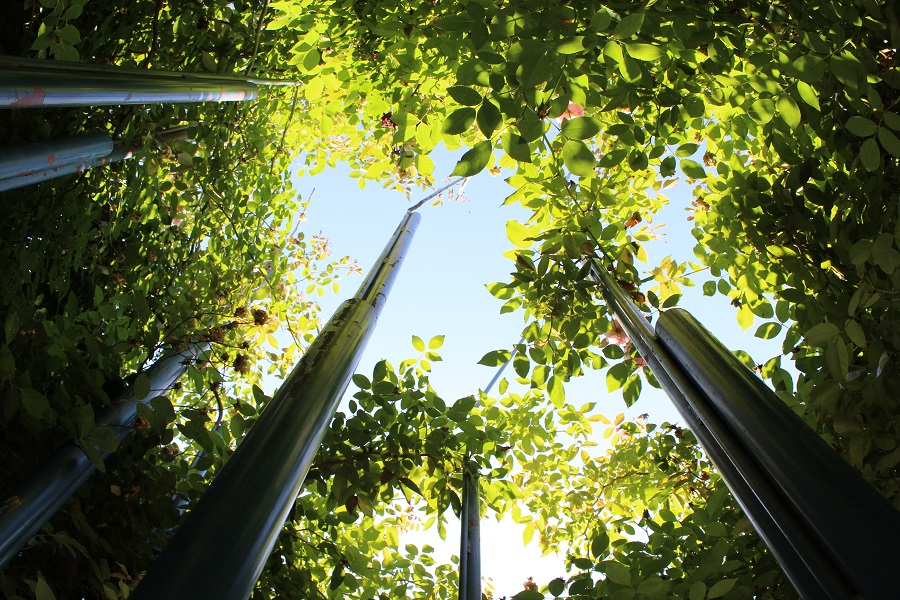
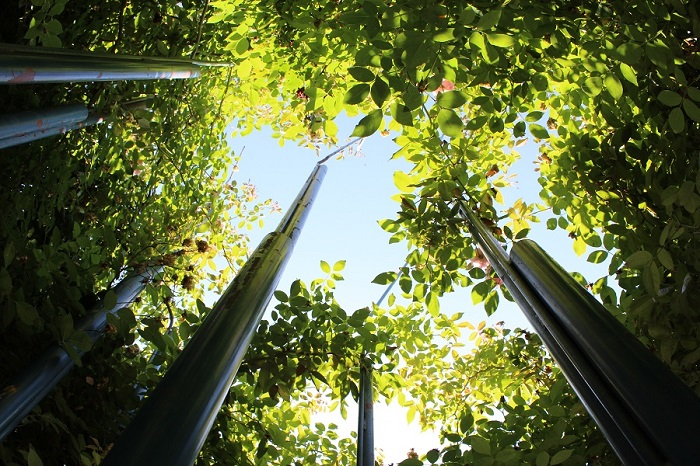
resized photos on photo section

diff --git a/photography/index.html b/photography/index.html
@@ -50,7 +50,7 @@
 
             <h1 class="heading"></h1>
 
-            <img id="previewImage" src="images/bandit.jpg" alt="Cat portrait" width="800">
+            <img id="previewImg" src="images/bandit.jpg" alt="Cat portrait">
 
           </div>
 
@@ -58,24 +58,24 @@
 
             <h2 class="subheading" id="photoTitle">Bandit</h2>
 
-            <p id="artDes">Portrait of grandma's cat, digital camera, 2012</p>
+            <p id="photoDes">Portrait of grandma's cat, digital camera, 2012</p>
 
             <ul id="photoThumbs">
-              <li class="photo"><a id="banditLink"><img src="images/banditLink.jpg" alt="Cat portrait" width="100"></a></li>
-              <li class="photo"><a id="lagunaBeachLink"><img src="images/beachLink.jpg" alt="beach" width="100"></a></li>
-              <li class="photo" id="bootsLink"><img src="images/bootsLink.jpg" alt="boots hanging" width="100"></li>
-              <li class="photo" id="bridgeLink"><img src="images/bridgeLink.jpg" alt="Bridge and Bird" width="100"></li>
-              <li class="photo" id="bulbLink"><img src="images/bulbLink.jpg" alt="string of bulbs" width="100"></li>
-              <li class="photo" id="lightsLink"><img src="images/lightsLink.jpg" alt="string of lights" width="100"></li>
-              <li class="photo" id="catRoadLink"><img src="images/catRoadLink.jpg" alt="Cat in middle of road" width="100"></li>
-              <li class="photo" id="owlLink"><img src="images/owlLink.jpg" alt="Owl" width="100"></li>
-              <li class="photo" id="roomLink"><img src="images/roomLink.jpg" alt="Room" width="100"></li>
-              <li class="photo" id="sanctuaryLink"><img src="images/sanctuaryLink.jpg" alt="bird sanctuary" width="100"></li>
-              <li class="photo" id="stitchesLink"><img src="images/stitchesLink.jpg" alt="stray cat" width="100"></li>
-              <li class="photo" id="stitches2Link"><img src="images/stitches2Link.jpg" alt="stray cat" width="100"></li>
-              <li class="photo" id="treeLink"><img src="images/treeLink.jpg" alt="tree" width="100"></li>
-              <li class="photo" id="treesLink"><img src="images/treesLink.jpg" alt="tree reflection" width="100"></li>
-              <li class="photo" id="wallLink"><img src="images/wallLink.jpg" alt="brick wall" width="100"></li>
+              <li class="photo" id="banditLink"><img src="images/banditLink.jpg" alt="Cat portrait"></li>
+              <li class="photo" id="lagunaBeachLink"><img src="images/beachLink.jpg" alt="beach"></li>
+              <li class="photo" id="bootsLink"><img src="images/bootsLink.jpg" alt="boots hanging"></li>
+              <li class="photo" id="bridgeLink"><img src="images/bridgeLink.jpg" alt="Bridge and Bird"></li>
+              <li class="photo" id="bulbLink"><img src="images/bulbLink.jpg" alt="string of bulbs"></li>
+              <li class="photo" id="lightsLink"><img src="images/lightsLink.jpg" alt="string of lights"></li>
+              <li class="photo" id="catRoadLink"><img src="images/catRoadLink.jpg" alt="Cat in middle of road"></li>
+              <li class="photo" id="owlLink"><img src="images/owlLink.jpg" alt="Owl"></li>
+              <li class="photo" id="roomLink"><img src="images/roomLink.jpg" alt="Room"></li>
+              <li class="photo" id="sanctuaryLink"><img src="images/sanctuaryLink.jpg" alt="bird sanctuary"></li>
+              <li class="photo" id="stitchesLink"><img src="images/stitchesLink.jpg" alt="stray cat"></li>
+              <li class="photo" id="stitches2Link"><img src="images/stitches2Link.jpg" alt="stray cat"></li>
+              <li class="photo" id="treeLink"><img src="images/treeLink.jpg" alt="tree"></li>
+              <li class="photo" id="treesLink"><img src="images/treesLink.jpg" alt="tree reflection"></li>
+              <li class="photo" id="wallLink"><img src="images/wallLink.jpg" alt="brick wall"></li>
             </ul>
 
           </div>
@@ -93,7 +93,7 @@
           <a href="https://www.linkedin.com/in/dnmacedo/"><img src="../images/linkedInIcon.png" alt="linkedIn icon" width="30" height="30"></a>
 
           </div>
-          
+
         </footer>
 
       </main>

diff --git a/photography/script.js b/photography/script.js
@@ -1,9 +1,6 @@
 document.addEventListener("DOMContentLoaded", function(event){
   console.log("DOM fully loaded and parsed");
 
-  document.addEventListener("DOMContentLoaded", function(event){
-    console.log("DOM fully loaded and parsed");
-
     // nav events
 
     console.log("reading");
@@ -15,12 +12,12 @@ document.addEventListener("DOMContentLoaded", function(event){
     var elements = document.getElementsByClassName("photo");
 
     // filename array
-    var fileName = [];
+    var fileName = ["bandit.jpg", "beach.jpg", "boots.JPG", "bridge.jpg", "bulb.JPG", "lights.JPG", "catRoad.JPG", "owl.JPG", "room.JPG", "sanctuary.JPG", "stitches.JPG", "stitches2.JPG", "tree.jpg", "trees.jpg", "wall.jpg"];
 
-    var title = [];
+    var title = ["Bandit", "Leguna", "Boots for Sale", "Flight", "Light Bulb", "Lights", "Cat in the Arboretum", "Owl", "Room-ination", "Sanctuary", "Stitches #1", "Stitches #2", "Treetop", "Algae Galaxy", "Old Towne Sacramento"];
 
     // description array
-    var description = [];
+    var description = ["2016", "2016", "2016", "2016", "2017", "2017", "2016", "2016", "2016", "2016", "2017", "2017", "2016", "2016", "2016"];
 
     var previewImg = document.getElementById("previewImg");
     var artTitle = document.getElementById("photoTitle");
@@ -55,7 +52,6 @@ document.addEventListener("DOMContentLoaded", function(event){
 
     }
 
-    });
 
 
 });

diff --git a/style.css b/style.css
@@ -298,9 +298,7 @@ section {
 	min-width: 450px;
 	max-width: 700px;
 	margin: 0 20px;
-	right: 0;
 }
-
 
 #artThumbs, #photoThumbs {
 	display: flex;
